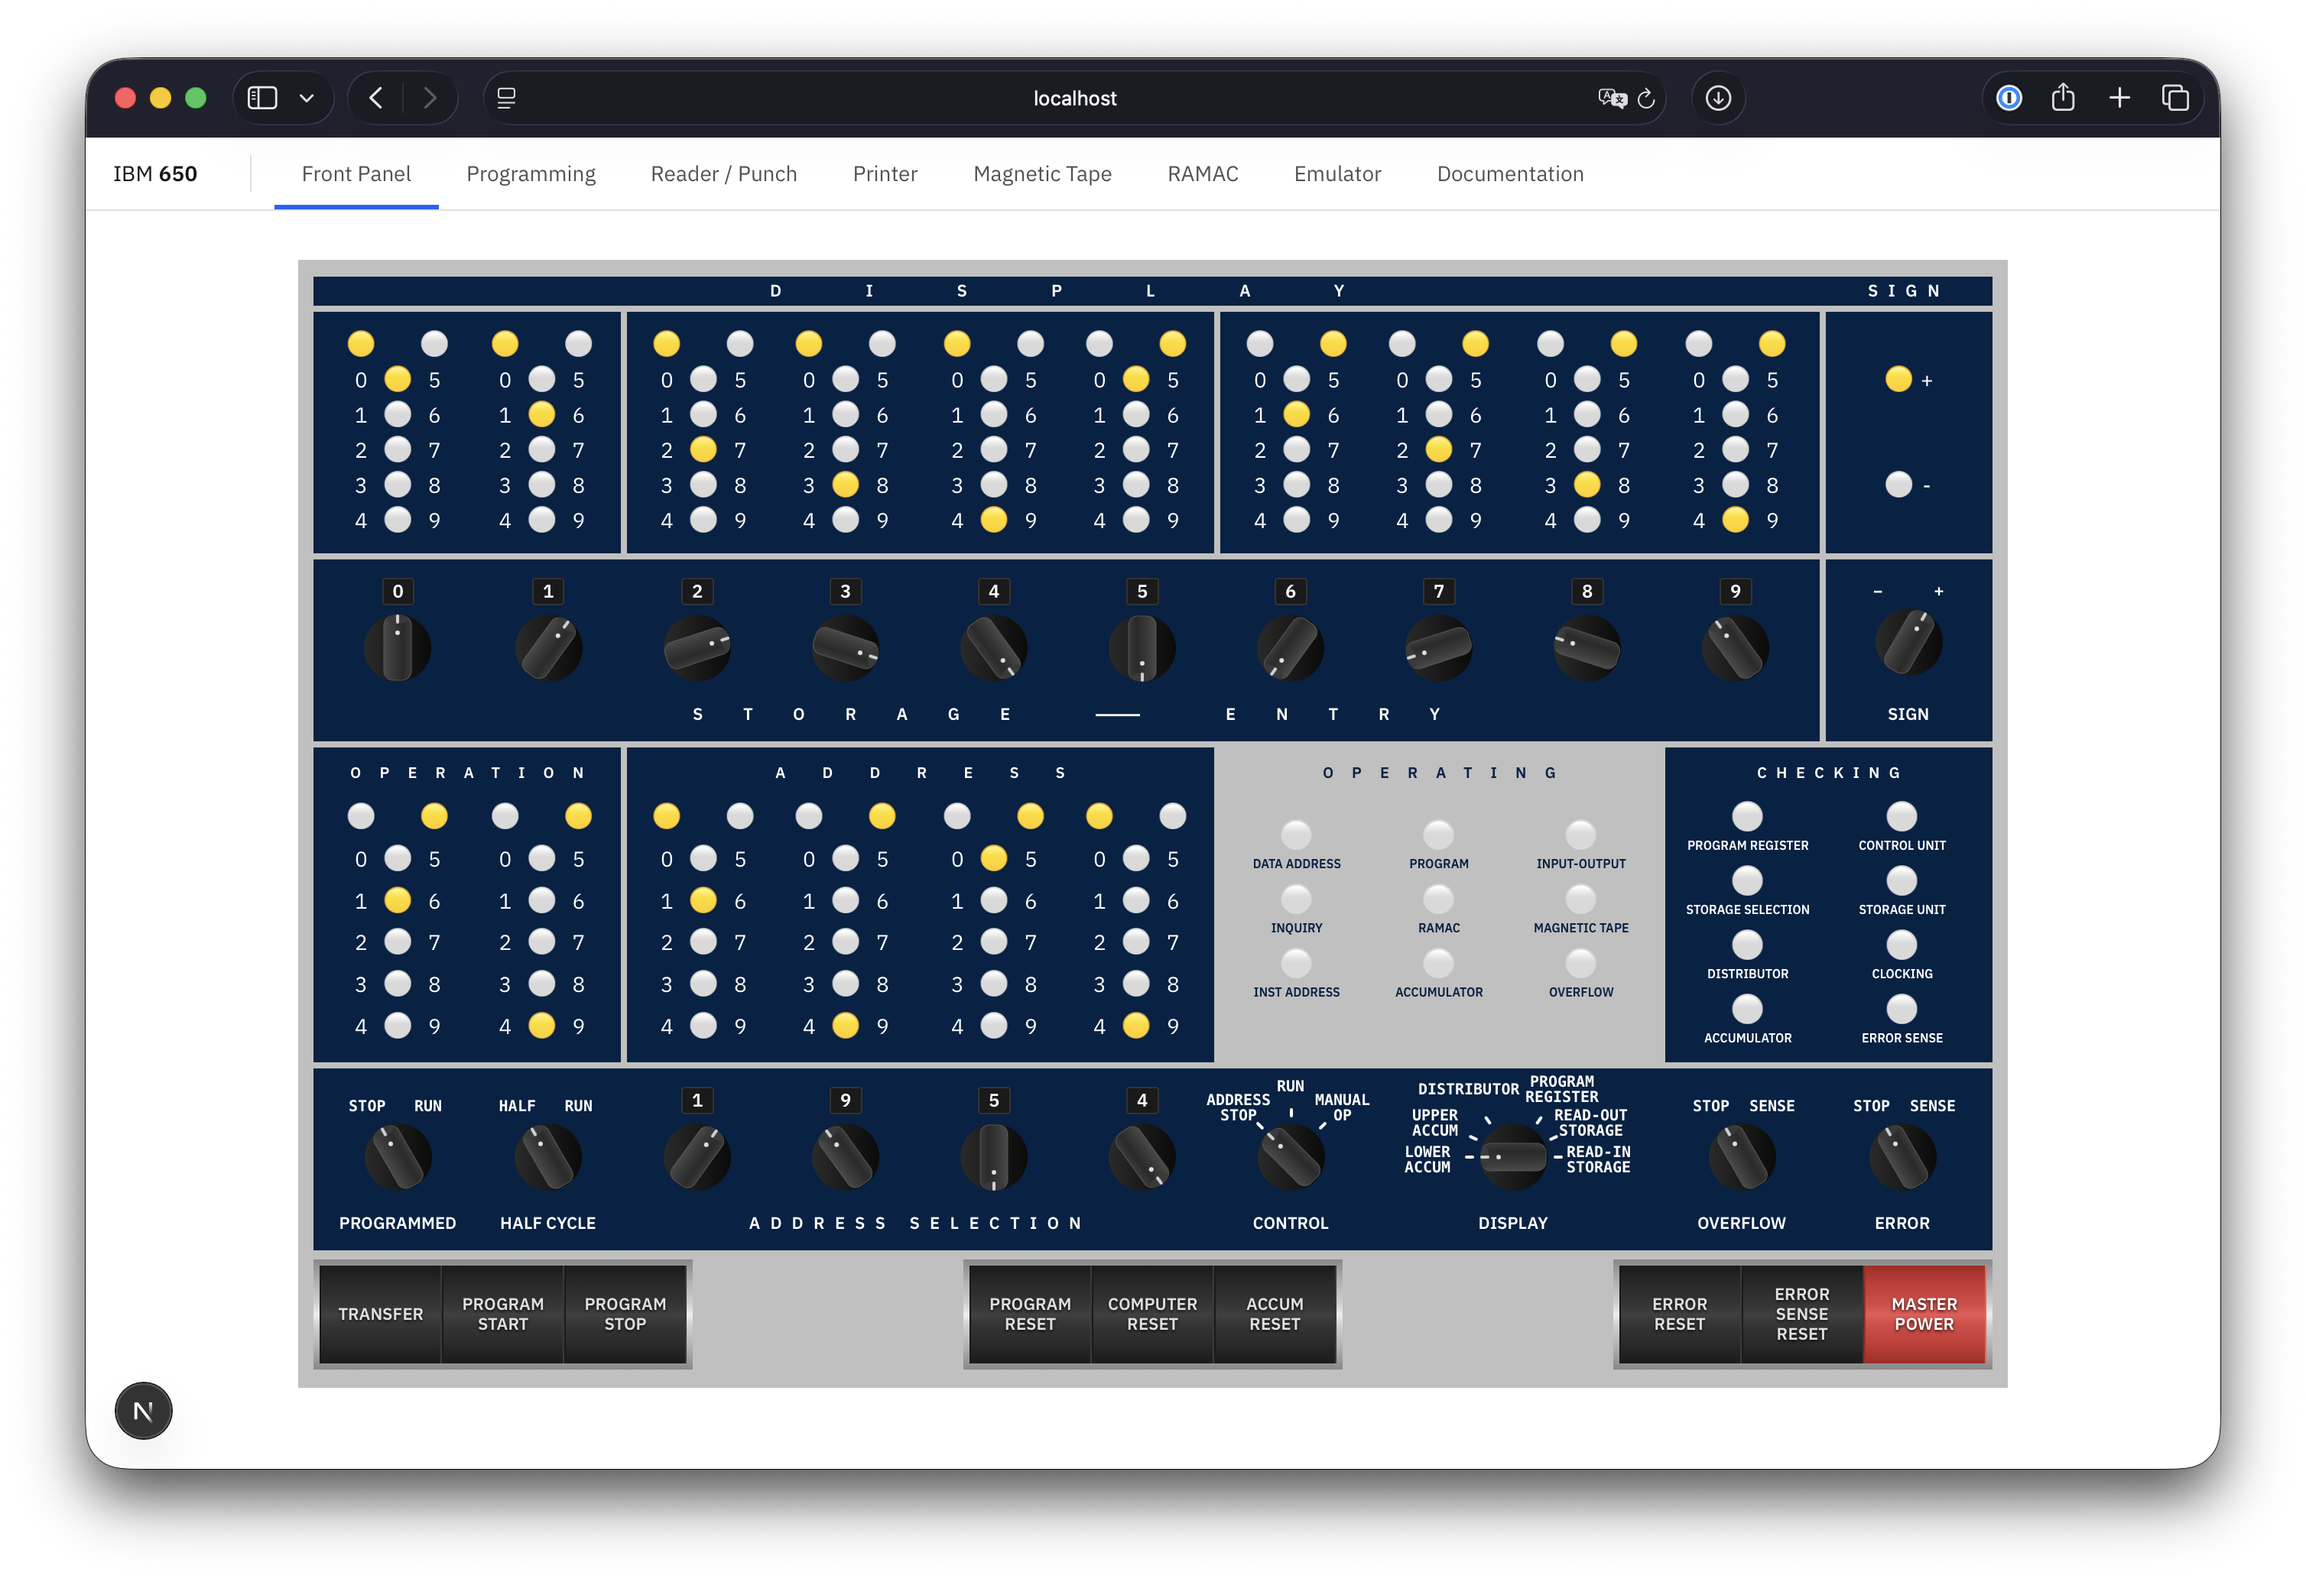
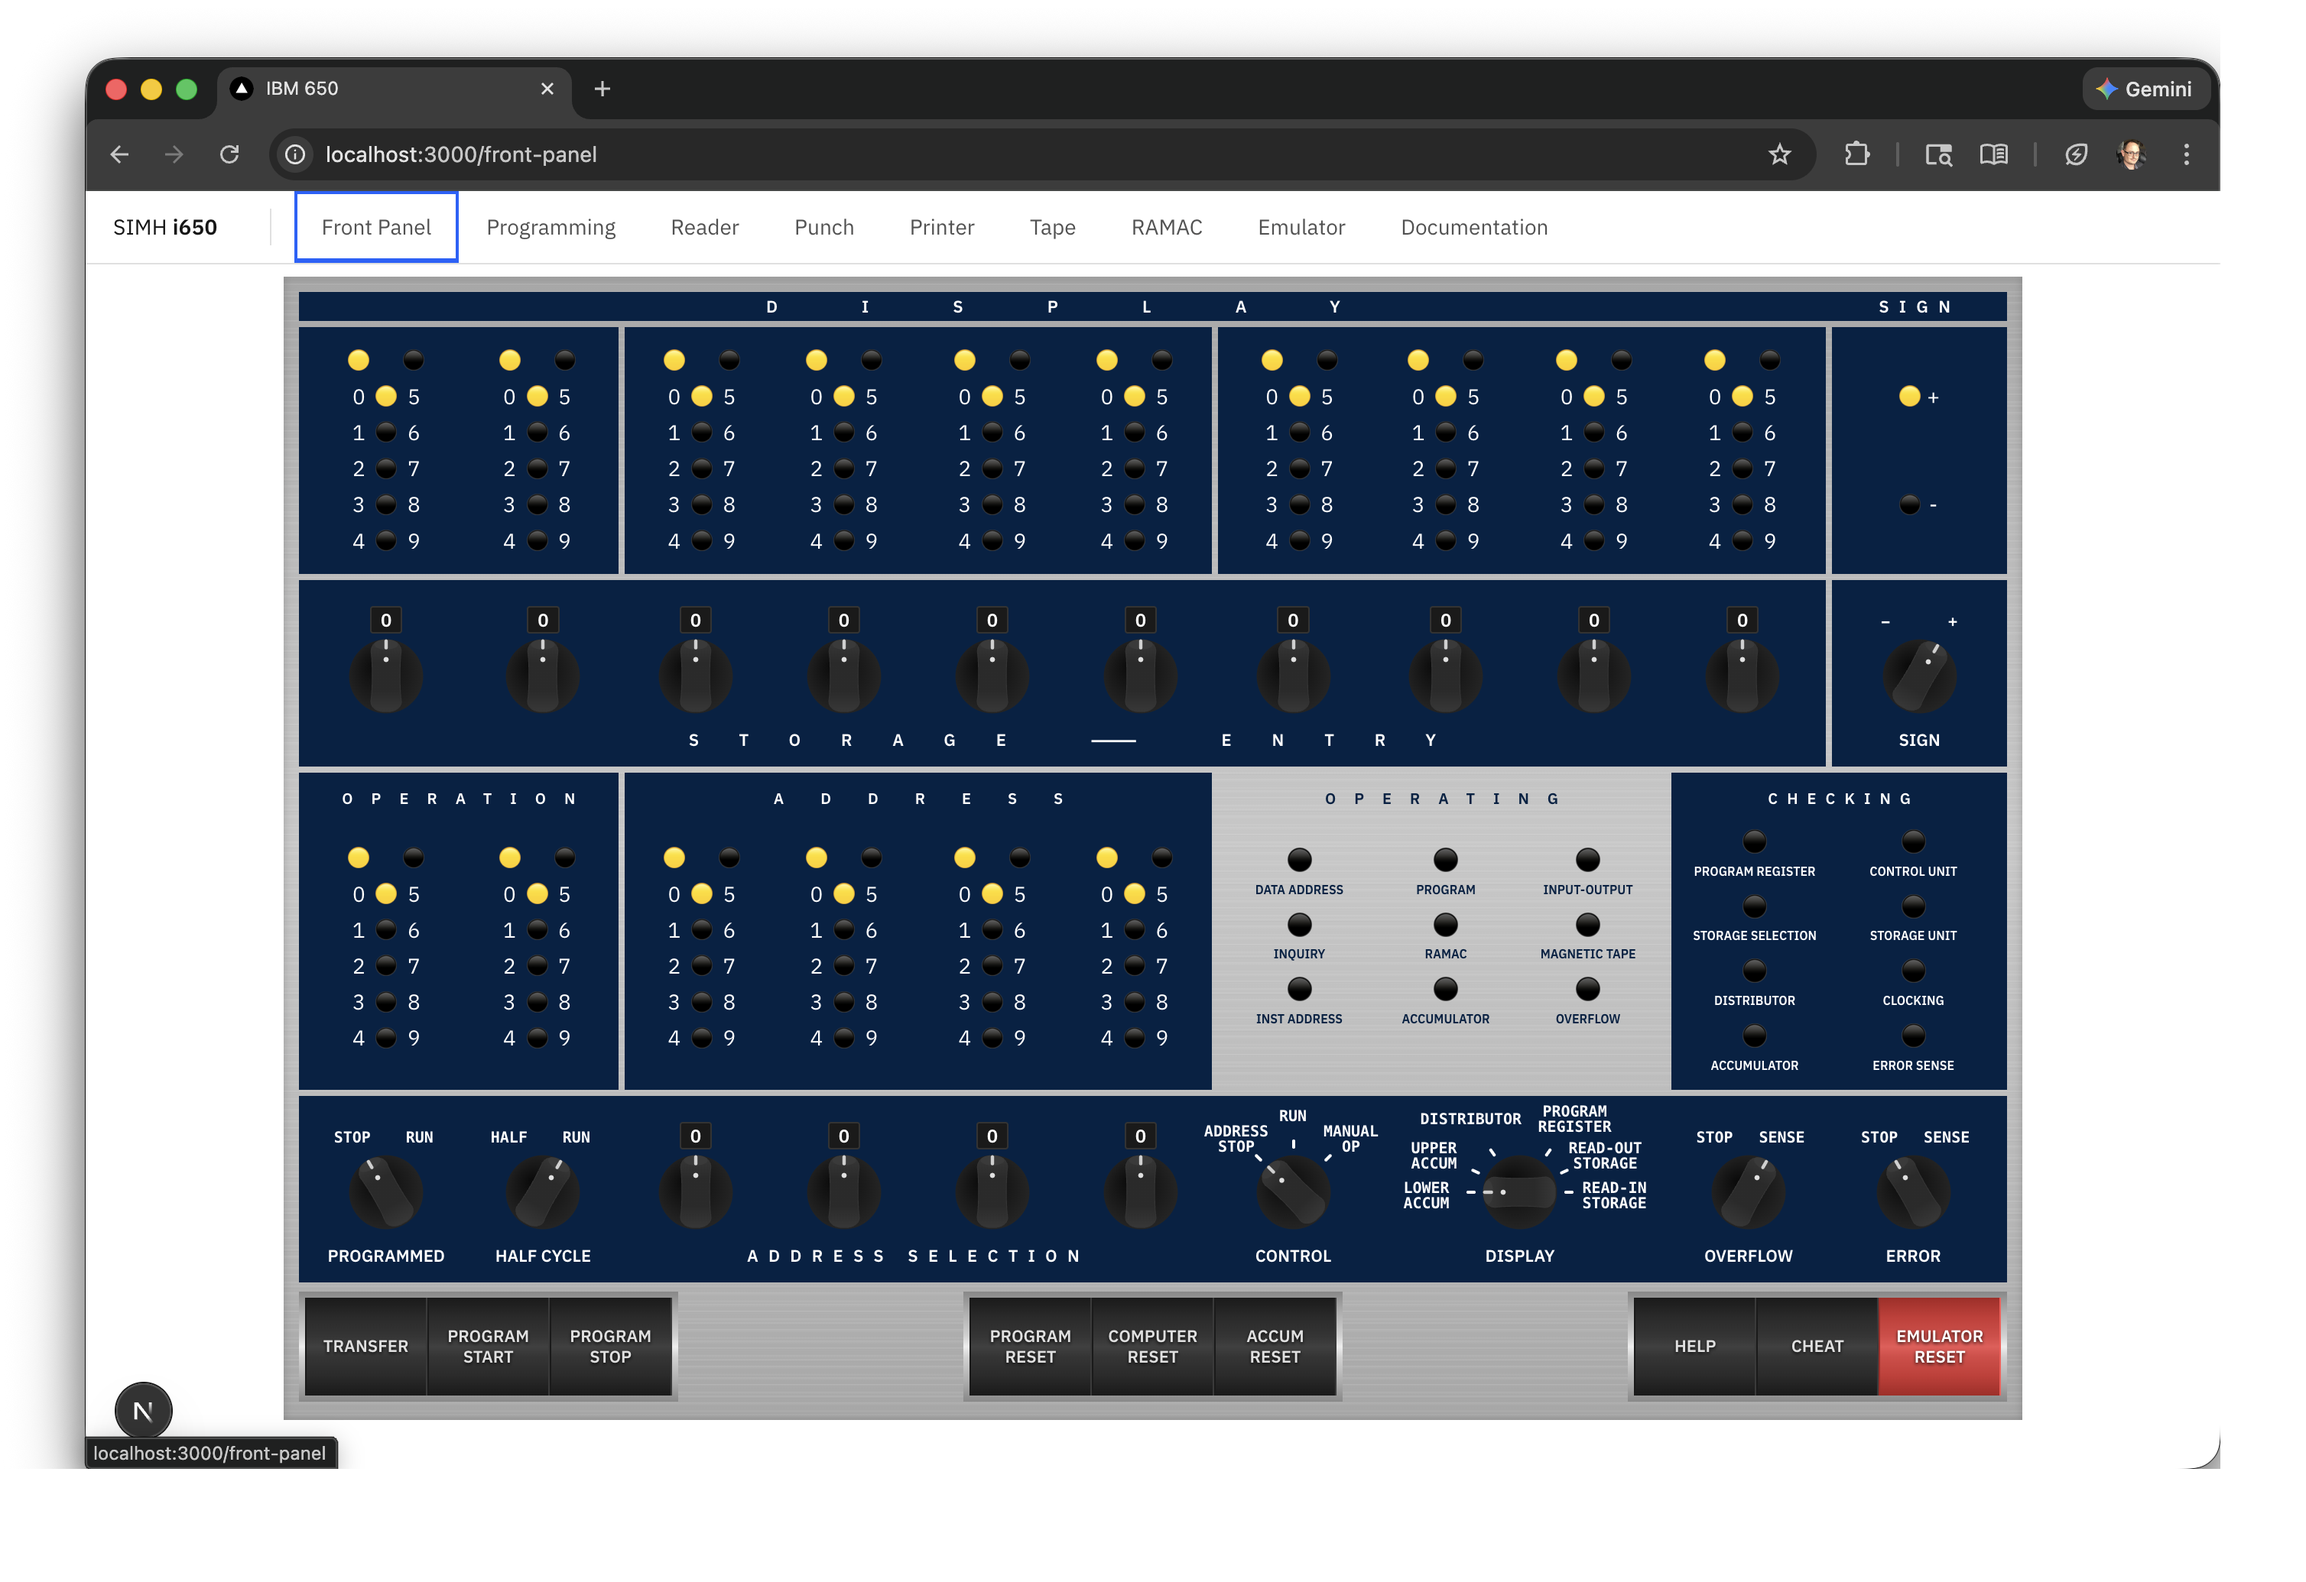
Improve security, update readme with new screenshots and disclaimers

Changed region(s): [[0.0312, 0.0309, 0.9973, 0.9894]]

diff --git a/src/lib/simh.test.ts b/src/lib/simh.test.ts
@@ -1,7 +1,8 @@
-import { describe, expect, it, vi, beforeEach } from 'vitest';
+import { describe, expect, it, vi, beforeEach, afterEach } from 'vitest';
 import type { IPty } from 'node-pty';
 import {
   SimhEmulator,
+  ConfigError,
   attachConsoleBuffer,
   detachConsoleBuffer,
   onConsoleLine,
@@ -19,6 +20,15 @@ let dataHandler: DataHandler | null = null;
 let exitHandler: ExitHandler | null = null;
 let writes: string[] = [];
 let killed = false;
+
+const fsMocks = vi.hoisted(() => ({
+  existsSync: vi.fn((): boolean => true),
+  statSync: vi.fn(() => ({ isFile: () => true })),
+  accessSync: vi.fn(),
+  constants: { X_OK: 1 },
+}));
+
+vi.mock('fs', () => fsMocks);
 
 vi.mock('node-pty', () => ({
   spawn: vi.fn((): IPty => {
@@ -343,13 +353,20 @@ describe('state primitives', () => {
   });
 
   it('initializeEmulator is a singleton and skips when already running', async () => {
+    const originalPath = process.env.I650_PATH;
+    process.env.I650_PATH = 'dummy-path';
+
     const runningMock = { isRunning: () => true };
     const globalShim = globalThis as { simhEmulator?: unknown };
     globalShim.simhEmulator = runningMock;
+
     await initializeEmulator('dummy');
+
     expect(getEmulator()).toBe(runningMock);
+
     // reset
     globalShim.simhEmulator = undefined;
+    process.env.I650_PATH = originalPath;
   });
 
   it('sendEscape resolves immediately when already at prompt', async () => {
@@ -373,5 +390,69 @@ describe('state primitives', () => {
 
     expect(sendCommand).toHaveBeenCalledWith('SHOW BREAK', { expectResponse: true });
     expect(breaks).toEqual({ '1000': 'E', '2000': 'E' });
+  });
+});
+
+describe('initializeEmulator binary validation', () => {
+  const originalPath = process.env.I650_PATH;
+  const originalPlatform = process.platform;
+
+  beforeEach(() => {
+    process.env.I650_PATH = '/usr/local/bin/i650';
+    const globalShim = globalThis as { simhEmulator?: unknown };
+    globalShim.simhEmulator = undefined;
+    // Reset fs mocks to passing defaults
+    fsMocks.existsSync.mockReturnValue(true);
+    fsMocks.statSync.mockReturnValue({ isFile: () => true });
+    fsMocks.accessSync.mockImplementation(() => {});
+  });
+
+  afterEach(() => {
+    process.env.I650_PATH = originalPath;
+    Object.defineProperty(process, 'platform', { value: originalPlatform });
+  });
+
+  it('throws ConfigError when I650_PATH is not set', async () => {
+    delete process.env.I650_PATH;
+    await expect(initializeEmulator('dummy')).rejects.toThrow(ConfigError);
+    await expect(initializeEmulator('dummy')).rejects.toThrow(/not set/);
+  });
+
+  it('throws ConfigError when file does not exist', async () => {
+    fsMocks.existsSync.mockReturnValue(false);
+    await expect(initializeEmulator('dummy')).rejects.toThrow(ConfigError);
+    await expect(initializeEmulator('dummy')).rejects.toThrow(/does not exist/);
+  });
+
+  it('throws ConfigError when path is not a file', async () => {
+    fsMocks.statSync.mockReturnValue({ isFile: () => false });
+    await expect(initializeEmulator('dummy')).rejects.toThrow(ConfigError);
+    await expect(initializeEmulator('dummy')).rejects.toThrow(/not a file/);
+  });
+
+  it('throws ConfigError when file is not executable on unix', async () => {
+    Object.defineProperty(process, 'platform', { value: 'linux' });
+    fsMocks.accessSync.mockImplementation(() => {
+      throw new Error('EACCES');
+    });
+    await expect(initializeEmulator('dummy')).rejects.toThrow(ConfigError);
+    await expect(initializeEmulator('dummy')).rejects.toThrow(/not executable/);
+  });
+
+  it('throws ConfigError for non-executable extension on windows', async () => {
+    Object.defineProperty(process, 'platform', { value: 'win32' });
+    process.env.I650_PATH = 'C:\\tools\\i650.txt';
+    await expect(initializeEmulator('dummy')).rejects.toThrow(ConfigError);
+    await expect(initializeEmulator('dummy')).rejects.toThrow(/does not appear to be an executable/);
+  });
+
+  it('accepts .exe on windows', async () => {
+    Object.defineProperty(process, 'platform', { value: 'win32' });
+    process.env.I650_PATH = 'C:\\tools\\i650.exe';
+    // Should pass validation and proceed to spawn (which is mocked)
+    const startPromise = initializeEmulator('dummy');
+    await vi.waitFor(() => { if (!dataHandler) throw new Error('waiting'); });
+    emitPrompt('');
+    await startPromise;
   });
 });

diff --git a/src/lib/simh.ts b/src/lib/simh.ts
@@ -1,9 +1,10 @@
 import * as pty from 'node-pty';
 import type { IPty } from 'node-pty';
 import * as path from 'path';
+import * as fs from 'fs';
 import { EventEmitter } from 'events';
 
-const SIMH_PATH = process.env.SIMH_PATH || '';
+const I650_PATH = process.env.I650_PATH || '';
 const SIMH_DEBUG = (process.env.SIMH_DEBUG || '').toLowerCase() === 'true' || process.env.SIMH_DEBUG === '1';
 const PROMPT = 'sim> ';
 const DEFAULT_TIMEOUT_MS = 30000;
@@ -136,15 +137,13 @@ class SimhEmulator {
       return Promise.reject(new Error('Emulator already running'));
     }
 
-    const binaryPath = SIMH_PATH
-      ? path.join(SIMH_PATH, this.binaryName)
-      : this.binaryName;
+    const binaryPath = I650_PATH || this.binaryName;
 
     console.log(`Starting SIMH emulator: ${binaryPath}`);
     debugLog('spawn options', {
       binaryPath,
       cwd: process.cwd(),
-      envSimhPath: SIMH_PATH,
+      envI650Path: I650_PATH,
     });
 
     return new Promise((resolve, reject) => {
@@ -599,10 +598,47 @@ export function getEmulator(): SimhEmulator | undefined {
   return g.simhEmulator;
 }
 
+export class ConfigError extends Error {
+  constructor(message: string) {
+    super(message);
+    this.name = 'ConfigError';
+  }
+}
+
 export async function initializeEmulator(binaryName: string): Promise<void> {
+  if (!process.env.I650_PATH) {
+    throw new ConfigError('I650_PATH environment variable not set to SIMH i650 binary.');
+  }
   if (g.simhEmulator?.isRunning()) {
     return;
   }
+
+  const resolvedPath = path.resolve(process.env.I650_PATH);
+
+  if (!fs.existsSync(resolvedPath)) {
+    throw new ConfigError(`I650_PATH points to a file that does not exist: ${resolvedPath}`);
+  }
+
+  const stat = fs.statSync(resolvedPath);
+  if (!stat.isFile()) {
+    throw new ConfigError(`I650_PATH is not a file: ${resolvedPath}`);
+  }
+
+  if (process.platform === 'win32') {
+    const ext = path.extname(resolvedPath).toLowerCase();
+    if (!['.exe', '.cmd', '.bat', '.com'].includes(ext)) {
+      throw new ConfigError(
+        `I650_PATH does not appear to be an executable (expected .exe, .cmd, .bat, or .com): ${resolvedPath}`,
+      );
+    }
+  } else {
+    try {
+      fs.accessSync(resolvedPath, fs.constants.X_OK);
+    } catch {
+      throw new ConfigError(`I650_PATH is not executable: ${resolvedPath}`);
+    }
+  }
+
   g.simhEmulator = new SimhEmulator(binaryName);
   attachConsoleBuffer(g.simhEmulator); // capture early output for console streaming
   await g.simhEmulator.start();

diff --git a/src/instrumentation.ts b/src/instrumentation.ts
@@ -1,10 +1,15 @@
 export async function register() {
   if (process.env.NEXT_RUNTIME === 'nodejs') {
-    const { initializeEmulator } = await import('@/lib/simh');
+    const { initializeEmulator, ConfigError } = await import('@/lib/simh');
     try {
       await initializeEmulator('i650');
     } catch (error) {
-      console.error('Failed to initialize SIMH emulator:', error);
+      if (error instanceof ConfigError) {
+        console.error('⚠', error.message);
+      } else {
+        console.error('Failed to initialize SIMH emulator:', error);
+      }
+      process.exit(1); // Exit the process with an error code
     }
   }
 }

diff --git a/src/components/Header.tsx b/src/components/Header.tsx
@@ -25,9 +25,9 @@ export default function AppHeader() {
   const pathname = usePathname();
 
   return (
-    <Header aria-label="IBM 650">
-      <HeaderName href="#" prefix="IBM">
-        650
+    <Header aria-label="SIMH i650">
+      <HeaderName href="#" prefix="SIMH">
+        i650
       </HeaderName>
       <HeaderNavigation aria-label="Navigation">
         {links.map((link) => (

diff --git a/next.config.ts b/next.config.ts
@@ -6,6 +6,10 @@ const nextConfig: NextConfig = {
   sassOptions: {
     silenceDeprecations: ["if-function"],
   },
+  // Set the hostname for the dev server
+  dev: {
+    hostname: 'localhost',
+  },
 };
 
 export default nextConfig;

diff --git a/src/app/layout.tsx b/src/app/layout.tsx
@@ -5,7 +5,7 @@ import { Content } from '@carbon/react';
 import './globals.scss';
 
 export const metadata: Metadata = {
-  title: 'IBM 650',
+  title: 'SIMH i650',
   description: 'IBM 650 Simulator',
 };
 

diff --git a/src/components/FrontPanel/AddressDisplay.module.scss b/src/components/FrontPanel/AddressDisplay.module.scss
@@ -1,4 +1,4 @@
-@import 'common';
+@use 'common' as *;
 
 .addressDisplay {
   @include panel-section;

diff --git a/src/components/FrontPanel/CheckingStatus.module.scss b/src/components/FrontPanel/CheckingStatus.module.scss
@@ -1,4 +1,4 @@
-@import 'common';
+@use 'common' as *;
 
 .checkingBox {
   @include panel-section;

diff --git a/src/components/FrontPanel/OperationDisplay.module.scss b/src/components/FrontPanel/OperationDisplay.module.scss
@@ -1,4 +1,4 @@
-@import 'common';
+@use 'common' as *;
 
 .digitGroup1 {
   @include panel-section;

diff --git a/src/components/FrontPanel/OperatingStatus.module.scss b/src/components/FrontPanel/OperatingStatus.module.scss
@@ -1,4 +1,4 @@
-@import 'common';
+@use 'common' as *;
 
 .operatingBox {
   grid-column: 7 / 10;

diff --git a/src/components/FrontPanel/EntrySection.module.scss b/src/components/FrontPanel/EntrySection.module.scss
@@ -1,4 +1,4 @@
-@import 'common';
+@use 'common' as *;
 
 .knobsRow {
   @include panel-section;

diff --git a/src/components/FrontPanel/BiQuinaryDigit.module.scss b/src/components/FrontPanel/BiQuinaryDigit.module.scss
@@ -1,4 +1,4 @@
-@import 'common';
+@use 'common' as *;
 
 .container {
   display: inline-grid;
